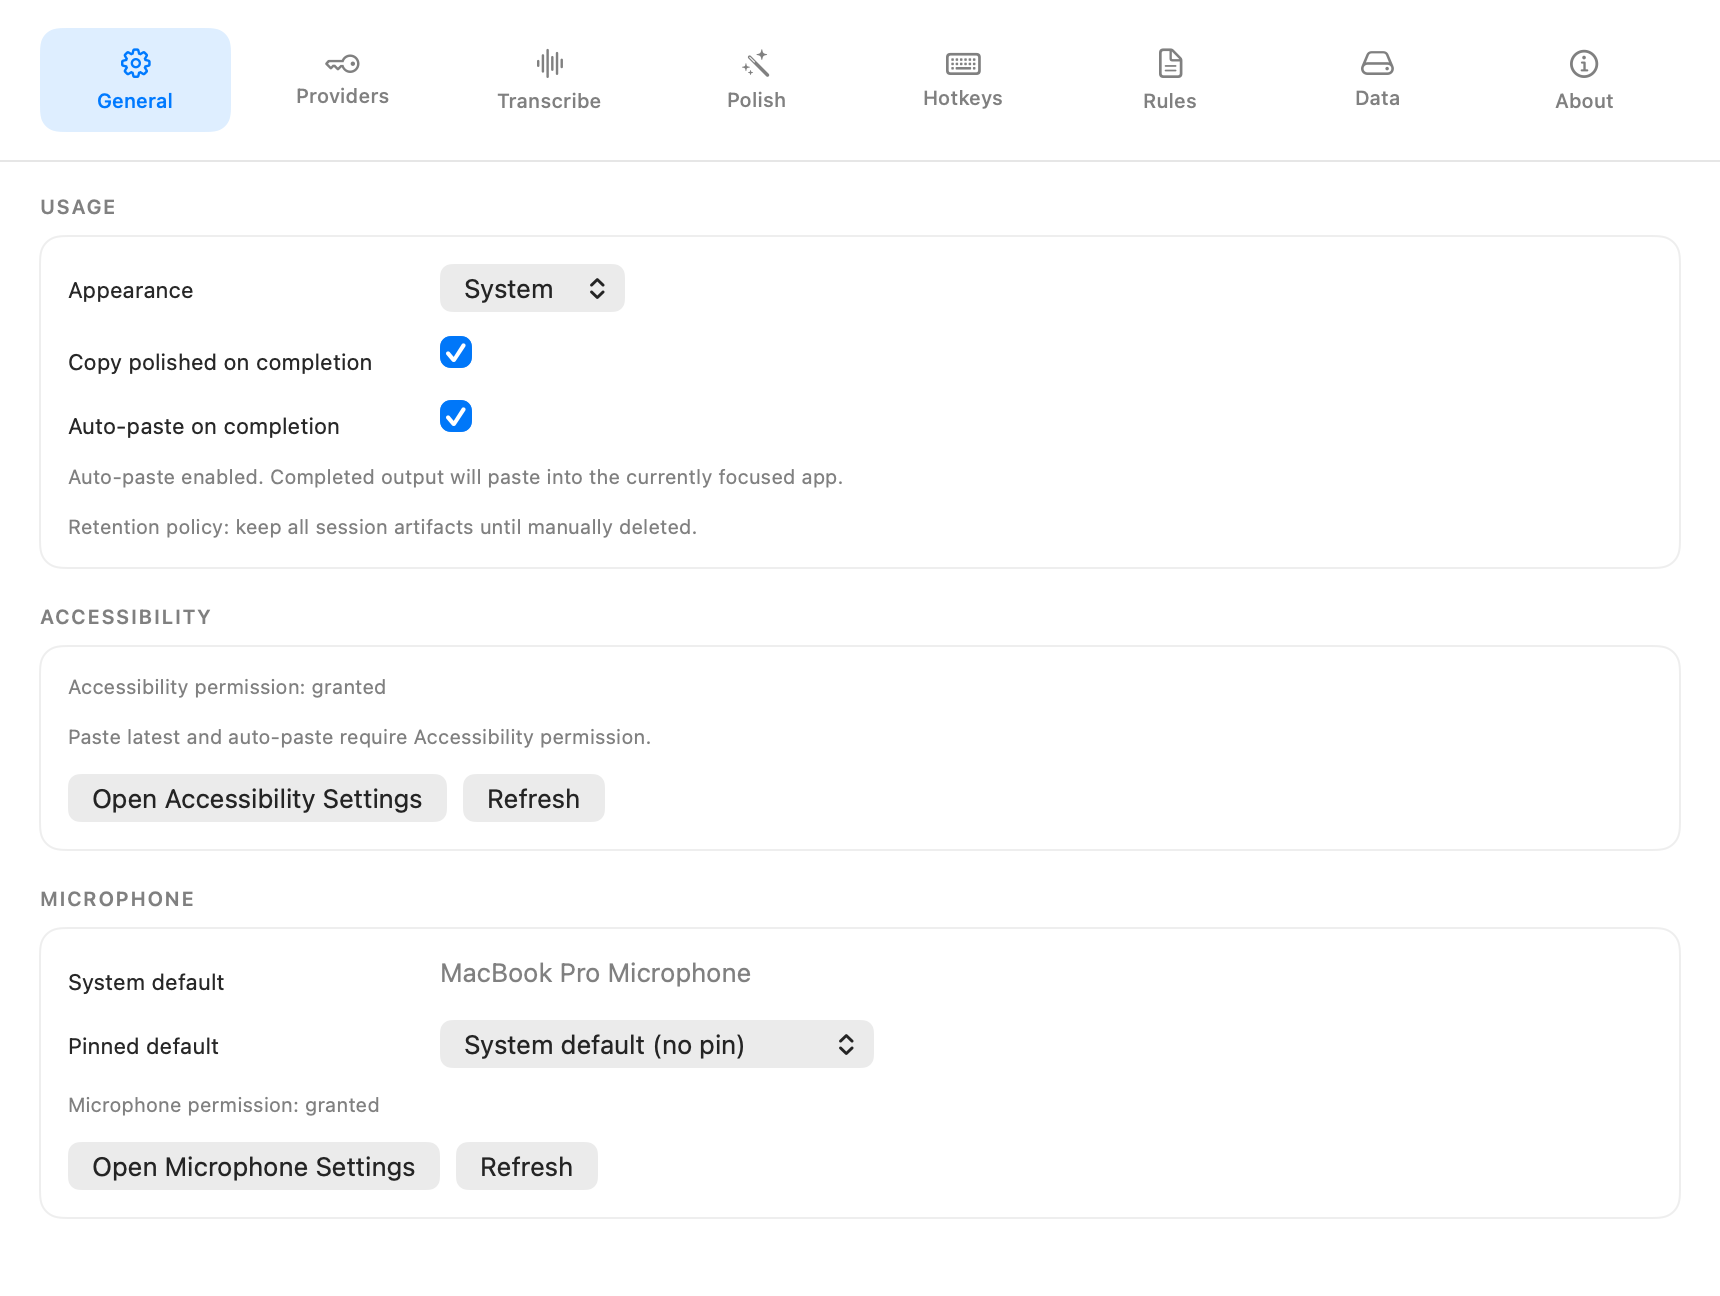
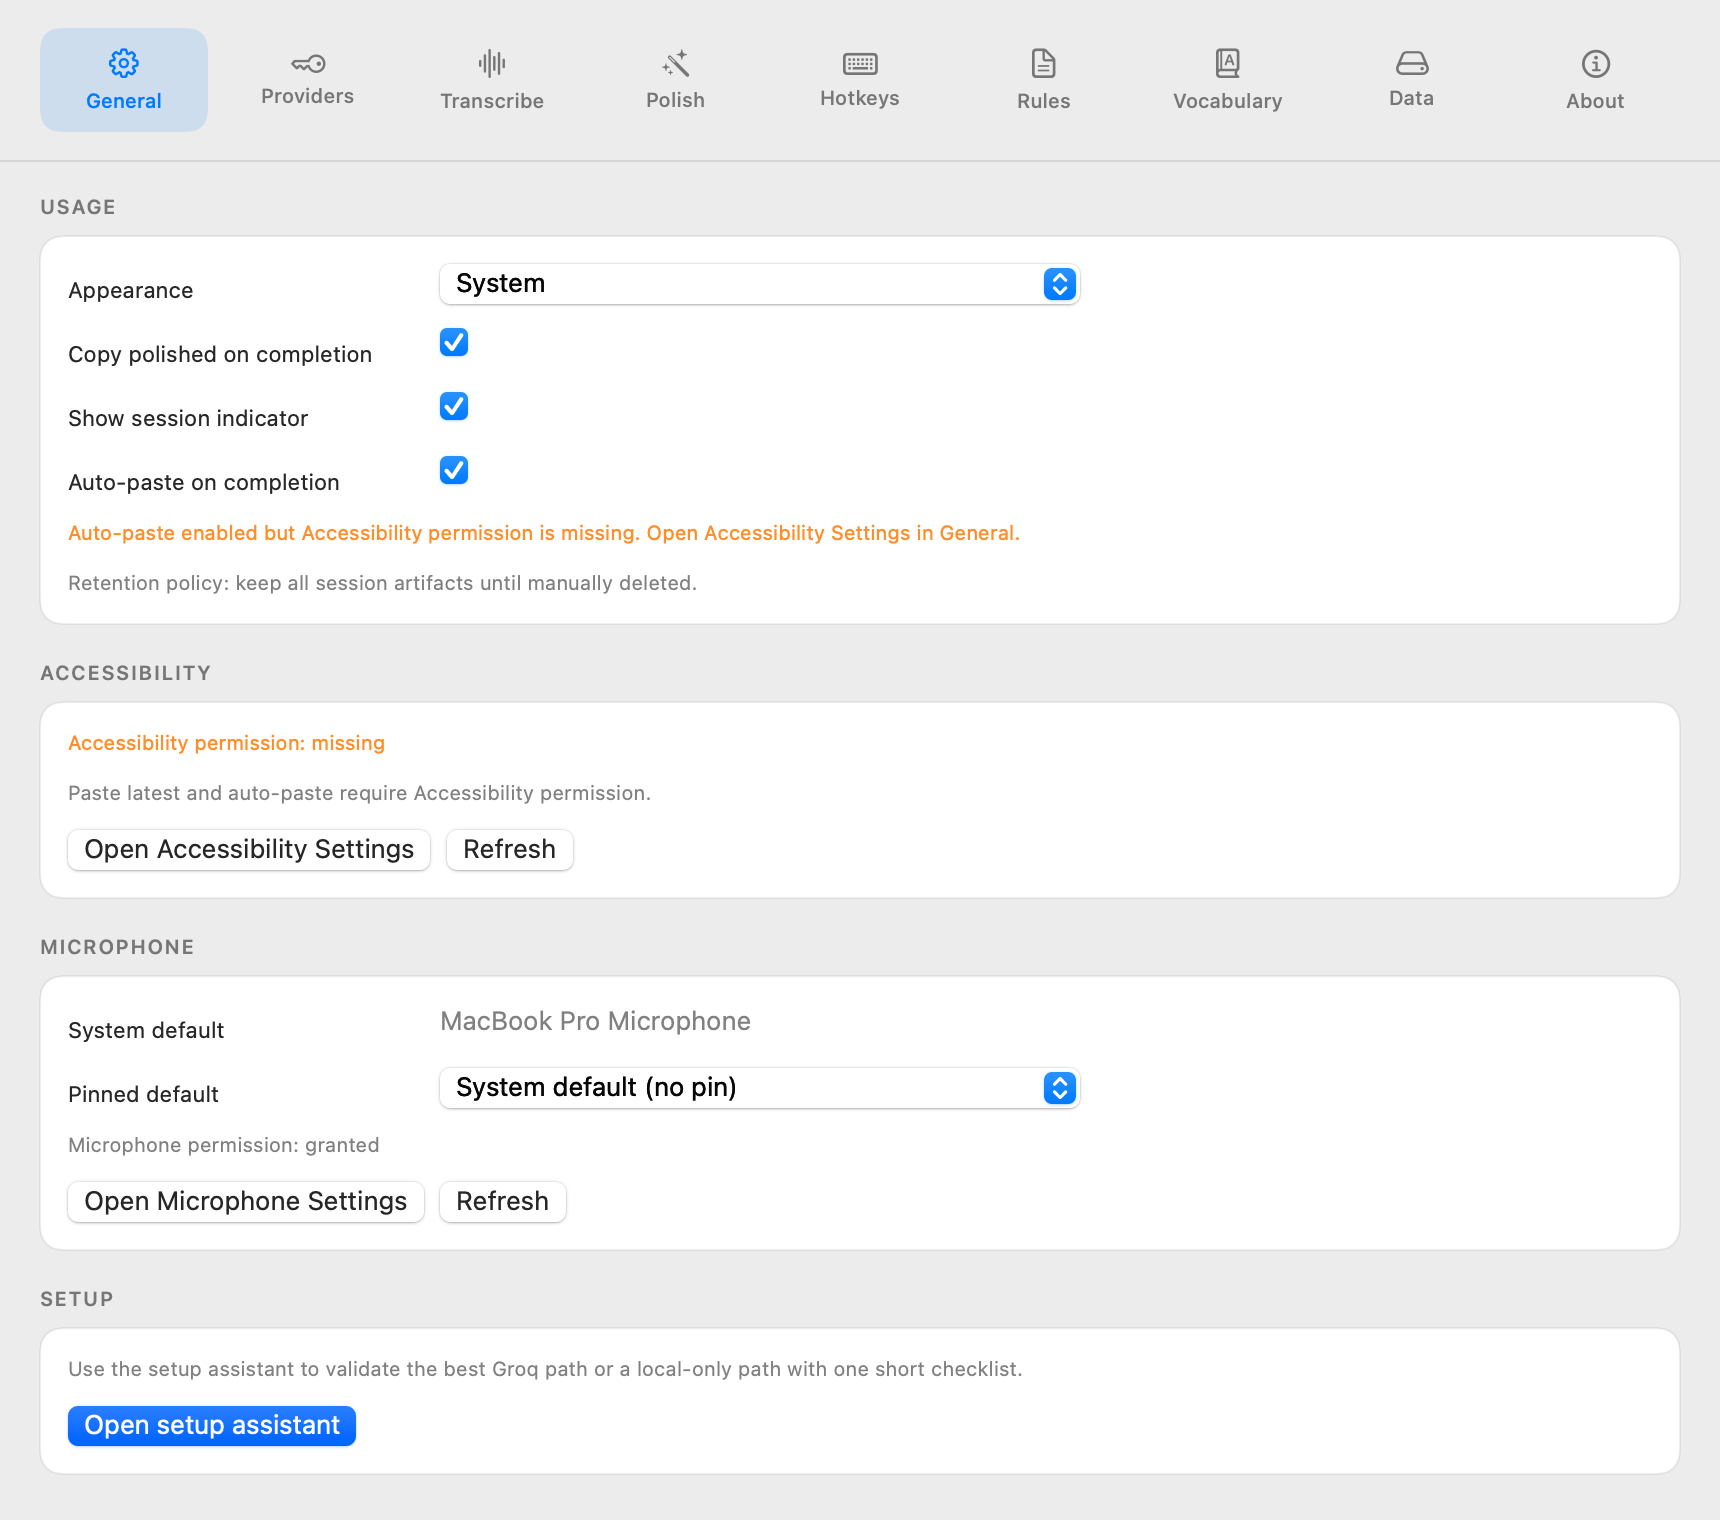
docs: refresh settings screenshots for vocabulary and Parakeet
Why
- The settings screenshots predated the Vocabulary tab and the new local model list.

What
- Replace every light and dark settings screenshot from a fresh UI smoke run.
- Add the Vocabulary tab screenshots to the UI reference and the vocabulary guide.
- Verified with mkdocs build --strict and a local visual check at 1280x800 and 1920x1080 in light and dark.

Instruction
- Update the docs screenshots.

diff --git a/site-docs/guides/vocabulary.md b/site-docs/guides/vocabulary.md
@@ -2,6 +2,8 @@
 
 Vocabulary teaches OpenScribe how to spell the words you say that speech models rarely hear: tool names, product names, and project jargon. Say "git ignore" and get `gitignore`, say "mise" and get `mise`.
 
+![Vocabulary settings tab](/images/ui/settings-vocabulary.png){ .guide-shot data-light-src="/images/ui/settings-vocabulary.png" data-dark-src="/images/ui/settings-vocabulary-dark.png" }
+
 ## What ships with OpenScribe
 
 OpenScribe includes a list of common developer terms, such as `worktree`, `gitignore`, `kubectl`, `PostgreSQL`, and `Ollama`. The list updates with each release. You can turn it off in Settings > Vocabulary.

diff --git a/site-docs/reference/ui-reference.md b/site-docs/reference/ui-reference.md
@@ -132,6 +132,8 @@ You can open Settings from the right-click menu, with `Cmd + ,` when OpenScribe 
 - See how each engine uses the list and whether Parakeet's vocabulary model is installed.
 - Edit your own terms, then save or revert.
 
+![Vocabulary settings tab](/images/ui/settings-vocabulary.png){ .guide-shot data-light-src="/images/ui/settings-vocabulary.png" data-dark-src="/images/ui/settings-vocabulary-dark.png" }
+
 ### Data
 
 - Install and delete local models for Parakeet and whisper.cpp.
